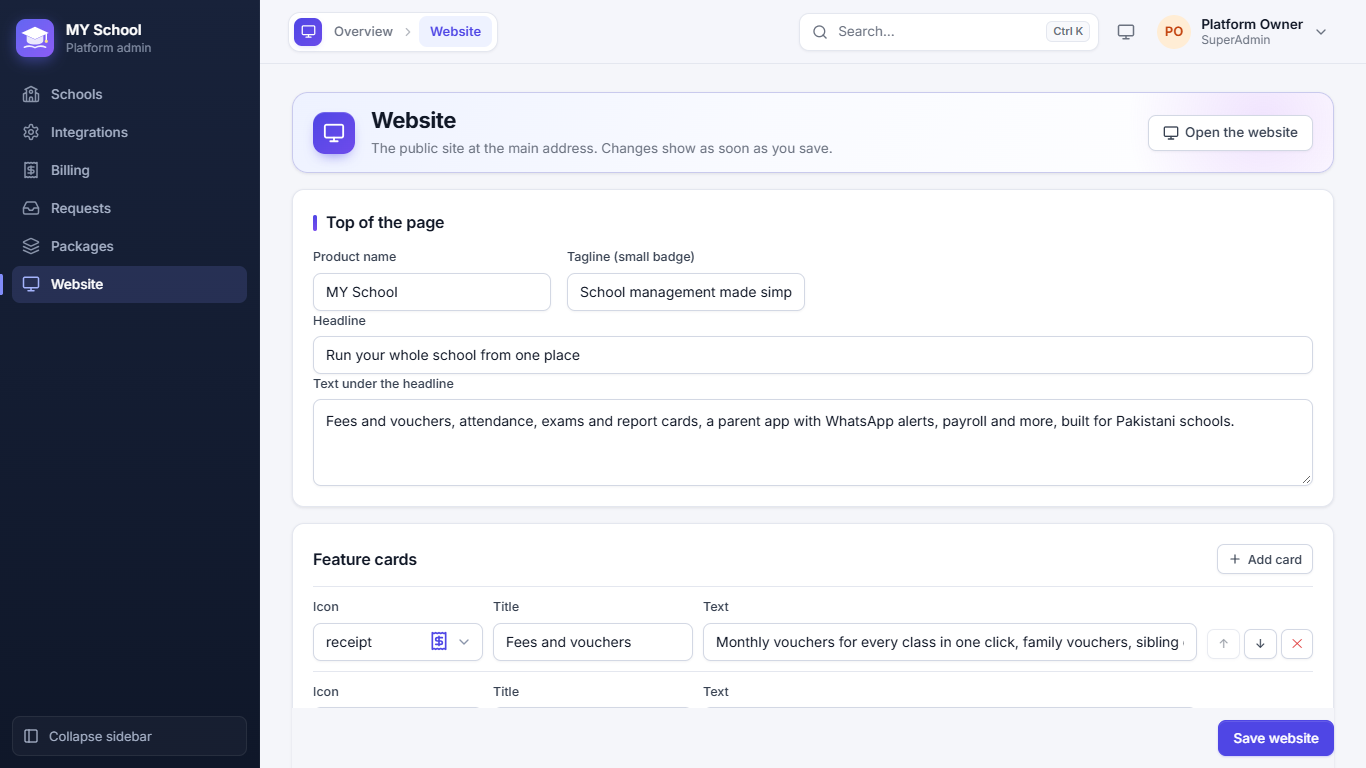
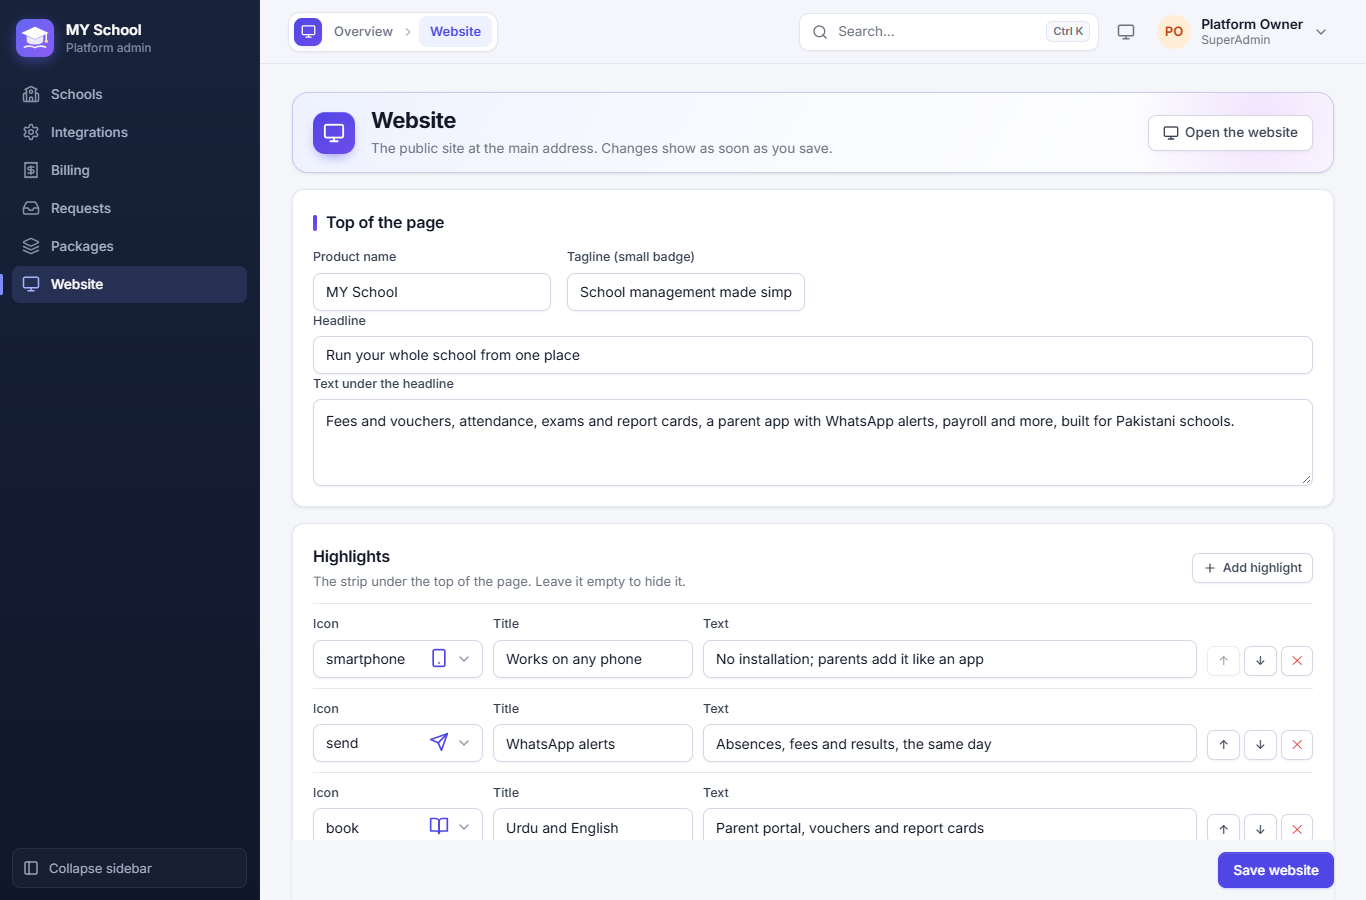
Guide: Raast on family vouchers, F-numbers on the bank statement, every website part editable

diff --git a/guide.html b/guide.html
@@ -173,7 +173,7 @@ portal for parents. You open it in a browser (Chrome or Edge) on a computer or a
 <p>Many schools can use the same app. Each school sees only its own data. An owner with several branches can join them
 in a School Group and see all branches with one login.</p>
 </div>
-    <div class="facts"><div><b>12</b>chapters</div><div><b>75</b>topics</div><div><b>71</b>screenshots</div></div>
+    <div class="facts"><div><b>12</b>chapters</div><div><b>75</b>topics</div><div><b>73</b>screenshots</div></div>
     <a class="btn" href="#contents">Start reading ↓</a>
   </section>
 
@@ -715,6 +715,10 @@ bank account the QR belongs to).</li>
 the QR code, the account number, and &quot;Write V-123 in the purpose / remarks&quot;, with that voucher&#39;s own number. The
 parent portal shows the same QR when a parent chooses to pay by transfer. A parent who pays this way does not need to
 send a proof: the payment is found on the bank statement (next section).</p>
+<p><figure><img src="images/family-voucher-raast.png" alt="Family voucher with Pay by Raast" loading="lazy"><figcaption>Family voucher with Pay by Raast</figcaption></figure></p>
+<p><strong>Family vouchers</strong> get the same box, but it asks for the <strong>family no.</strong>: &quot;Write F-12 in the purpose / remarks&quot;. The
+parent pays the whole family&#39;s amount in one transfer. A student without a family gets their own slip, which asks for
+the voucher no. as usual.</p>
 <h3 id="ch05-match-the-bank-statement"><a class="anchor" href="#ch05-match-the-bank-statement" aria-hidden="true">#</a>Match the bank statement</h3>
 <p><figure><img src="images/bank-statement.png" alt="Match bank statement" loading="lazy"><figcaption>Match bank statement</figcaption></figure></p>
 <p><strong>Fees → Match bank statement</strong> turns the money that came into the school&#39;s account into fee receipts, without
@@ -722,16 +726,19 @@ typing them one by one.</p>
 <ol>
 <li>Download the account statement from internet banking as <strong>Excel or CSV</strong> and click <strong>Upload statement</strong>. The app finds
 the heading row by itself; if it picks the wrong columns, fix them with <strong>Columns</strong>.</li>
-<li>Only money coming in (credits) is listed. For each line the app looks for the voucher: first &quot;V-123&quot; or
-&quot;Voucher 123&quot; in the details, then the admission no., then the amount together with the student&#39;s full name. It
-never matches on the amount alone.</li>
-<li>Check each match. Type a <strong>Voucher no.</strong> for a line the app could not match. In <strong>Do</strong>, choose <strong>Record</strong>,
-<strong>Leave</strong> (it comes back next time you upload) or <strong>Not a fee</strong> (never shown again).</li>
-<li>Click <strong>Record payments</strong> (it says how many, like &quot;Record 3 payments&quot;). Each one is saved as a bank payment on its voucher. If the parent had already sent a
-proof for the same voucher and amount, that proof is approved instead.</li>
+<li>Only money coming in (credits) is listed. For each line the app looks for a family no. (&quot;F-12&quot; or &quot;Family 12&quot;)
+in the details first, then the voucher: &quot;V-123&quot; or &quot;Voucher 123&quot;, then the admission no., then the amount together
+with the student&#39;s full name. It never matches on the amount alone. &quot;F-12&quot; is never taken as voucher 12.</li>
+<li>Check each match. A family line shows the family&#39;s name, how many vouchers it covers and what the family owes.
+For a line the app could not match, type the voucher no. (like 1187) or the family no. (like F-12). In <strong>Do</strong>,
+choose <strong>Record</strong>, <strong>Leave</strong> (it comes back next time you upload) or <strong>Not a fee</strong> (never shown again).</li>
+<li>Click <strong>Record payments</strong> (it says how many, like &quot;Record 3 payments&quot;). Each one is saved as a bank payment on its
+voucher. A family payment is shared over the children&#39;s vouchers, oldest due first, with one family receipt (like
+FR-7), as at the counter. If the parent had already sent a proof for the same voucher (or family) and amount, that
+proof is approved instead.</li>
 </ol>
 <p>Lines that were already recorded are skipped if the same statement is uploaded again. A payment bigger than what the
-voucher owes is refused, so the extra is not lost.</p>
+voucher or family owes is refused, so the extra is not lost.</p>
 <h3 id="ch05-scholarships-and-installments"><a class="anchor" href="#ch05-scholarships-and-installments" aria-hidden="true">#</a>Scholarships and installments</h3>
 <p>Open <strong>Fees → Scholarships &amp; installments</strong>. Both are used when the month&#39;s vouchers are generated.</p>
 <p><figure><img src="images/scholarships.png" alt="Scholarships" loading="lazy"><figcaption>Scholarships</figcaption></figure></p>
@@ -1315,13 +1322,26 @@ each mobile number, even if a family has several children.</p>
 The owner&#39;s menu has <strong>Schools</strong>, <strong>Integrations</strong>, <strong>Billing</strong>, <strong>Requests</strong>, <strong>Packages</strong> and <strong>Website</strong>.</p>
 <h3 id="ch12-the-website"><a class="anchor" href="#ch12-the-website" aria-hidden="true">#</a>The website</h3>
 <p><figure><img src="images/website.png" alt="The website" loading="lazy"><figcaption>The website</figcaption></figure></p>
-<p>The main address of the app (without /login) opens the public website: what MY School does, the packages with their
-prices, common questions and a <strong>Get started</strong> form. Schools that already use the app click <strong>Sign in</strong>.</p>
+<p>The main address of the app (without /login) opens the public website. From the top down it has: the headline, a
+strip of short highlights, the feature cards, <strong>How it works</strong> in numbered steps, the packages with their prices, a
+demo band with a button, common questions, and a contact card with the <strong>Get started</strong> form. Schools that already use
+the app click <strong>Sign in</strong>.</p>
+<p><figure><img src="images/website-steps.png" alt="How it works on the website" loading="lazy"><figcaption>How it works on the website</figcaption></figure></p>
 <p><figure><img src="images/owner-website.png" alt="Owner: website words" loading="lazy"><figcaption>Owner: website words</figcaption></figure></p>
-<p><strong>Website</strong> changes the words on that page: the product name, tagline, headline and the text under it, the feature
-cards (each with an icon, title and text; move them up or down), the questions and answers, and the phone, WhatsApp
-and email for contact. Click <strong>Save website</strong>: the change shows at once. <strong>Open the website</strong> shows it. When there are
-no questions, that part of the page is hidden.</p>
+<p><strong>Website</strong> changes every word on that page, part by part, in the same order as the page:</p>
+<ul>
+<li><strong>Top of the page</strong>: the product name, the tagline (the small badge), the headline and the text under it.</li>
+<li><strong>Highlights</strong>: the strip under the top. Each has an icon, a title and a short text.</li>
+<li><strong>Feature cards</strong>: each with an icon, a title and a text.</li>
+<li><strong>How it works</strong>: the numbered steps, each with a title and a text.</li>
+<li><strong>Demo band</strong>: its title, text and button words.</li>
+<li><strong>Questions</strong>: the questions and their answers.</li>
+<li><strong>Contact and links</strong>: the contact person and their role (like &quot;Sales and support&quot;), phone, WhatsApp number, email
+and address, the user guide link and the note at the foot of the page.</li>
+</ul>
+<p>In the lists (highlights, cards, steps, questions), <strong>Add highlight</strong> / <strong>Add card</strong> / <strong>Add step</strong> / <strong>Add question</strong> makes a new one, the arrows move one up or down and ✕
+removes it. A list left empty is hidden on the website, and so are the questions when there are none. Click
+<strong>Save website</strong>: the change shows at once. <strong>Open the website</strong> shows it.</p>
 <h3 id="ch12-packages"><a class="anchor" href="#ch12-packages" aria-hidden="true">#</a>Packages</h3>
 <p><figure><img src="images/owner-packages.png" alt="Owner: packages" loading="lazy"><figcaption>Owner: packages</figcaption></figure></p>
 <p><strong>Packages</strong> are what the website sells, for example Starter (up to 300 students), Standard (up to 800) and Premium

diff --git a/05-fees.md b/05-fees.md
@@ -100,6 +100,12 @@ the QR code, the account number, and "Write V-123 in the purpose / remarks", wit
 parent portal shows the same QR when a parent chooses to pay by transfer. A parent who pays this way does not need to
 send a proof: the payment is found on the bank statement (next section).
 
+![Family voucher with Pay by Raast](images/family-voucher-raast.png)
+
+**Family vouchers** get the same box, but it asks for the **family no.**: "Write F-12 in the purpose / remarks". The
+parent pays the whole family's amount in one transfer. A student without a family gets their own slip, which asks for
+the voucher no. as usual.
+
 ## Match the bank statement
 
 ![Match bank statement](images/bank-statement.png)
@@ -109,16 +115,19 @@ typing them one by one.
 
 1. Download the account statement from internet banking as **Excel or CSV** and click **Upload statement**. The app finds
    the heading row by itself; if it picks the wrong columns, fix them with **Columns**.
-2. Only money coming in (credits) is listed. For each line the app looks for the voucher: first "V-123" or
-   "Voucher 123" in the details, then the admission no., then the amount together with the student's full name. It
-   never matches on the amount alone.
-3. Check each match. Type a **Voucher no.** for a line the app could not match. In **Do**, choose **Record**,
-   **Leave** (it comes back next time you upload) or **Not a fee** (never shown again).
-4. Click **Record payments** (it says how many, like "Record 3 payments"). Each one is saved as a bank payment on its voucher. If the parent had already sent a
-   proof for the same voucher and amount, that proof is approved instead.
+2. Only money coming in (credits) is listed. For each line the app looks for a family no. ("F-12" or "Family 12")
+   in the details first, then the voucher: "V-123" or "Voucher 123", then the admission no., then the amount together
+   with the student's full name. It never matches on the amount alone. "F-12" is never taken as voucher 12.
+3. Check each match. A family line shows the family's name, how many vouchers it covers and what the family owes.
+   For a line the app could not match, type the voucher no. (like 1187) or the family no. (like F-12). In **Do**,
+   choose **Record**, **Leave** (it comes back next time you upload) or **Not a fee** (never shown again).
+4. Click **Record payments** (it says how many, like "Record 3 payments"). Each one is saved as a bank payment on its
+   voucher. A family payment is shared over the children's vouchers, oldest due first, with one family receipt (like
+   FR-7), as at the counter. If the parent had already sent a proof for the same voucher (or family) and amount, that
+   proof is approved instead.
 
 Lines that were already recorded are skipped if the same statement is uploaded again. A payment bigger than what the
-voucher owes is refused, so the extra is not lost.
+voucher or family owes is refused, so the extra is not lost.
 
 
 ## Scholarships and installments

diff --git a/12-platform-owner.md b/12-platform-owner.md
@@ -9,15 +9,29 @@ The owner's menu has **Schools**, **Integrations**, **Billing**, **Requests**, *
 
 ![The website](images/website.png)
 
-The main address of the app (without /login) opens the public website: what MY School does, the packages with their
-prices, common questions and a **Get started** form. Schools that already use the app click **Sign in**.
+The main address of the app (without /login) opens the public website. From the top down it has: the headline, a
+strip of short highlights, the feature cards, **How it works** in numbered steps, the packages with their prices, a
+demo band with a button, common questions, and a contact card with the **Get started** form. Schools that already use
+the app click **Sign in**.
+
+![How it works on the website](images/website-steps.png)
 
 ![Owner: website words](images/owner-website.png)
 
-**Website** changes the words on that page: the product name, tagline, headline and the text under it, the feature
-cards (each with an icon, title and text; move them up or down), the questions and answers, and the phone, WhatsApp
-and email for contact. Click **Save website**: the change shows at once. **Open the website** shows it. When there are
-no questions, that part of the page is hidden.
+**Website** changes every word on that page, part by part, in the same order as the page:
+
+- **Top of the page**: the product name, the tagline (the small badge), the headline and the text under it.
+- **Highlights**: the strip under the top. Each has an icon, a title and a short text.
+- **Feature cards**: each with an icon, a title and a text.
+- **How it works**: the numbered steps, each with a title and a text.
+- **Demo band**: its title, text and button words.
+- **Questions**: the questions and their answers.
+- **Contact and links**: the contact person and their role (like "Sales and support"), phone, WhatsApp number, email
+  and address, the user guide link and the note at the foot of the page.
+
+In the lists (highlights, cards, steps, questions), **Add highlight** / **Add card** / **Add step** / **Add question** makes a new one, the arrows move one up or down and ✕
+removes it. A list left empty is hidden on the website, and so are the questions when there are none. Click
+**Save website**: the change shows at once. **Open the website** shows it.
 
 ## Packages
 
